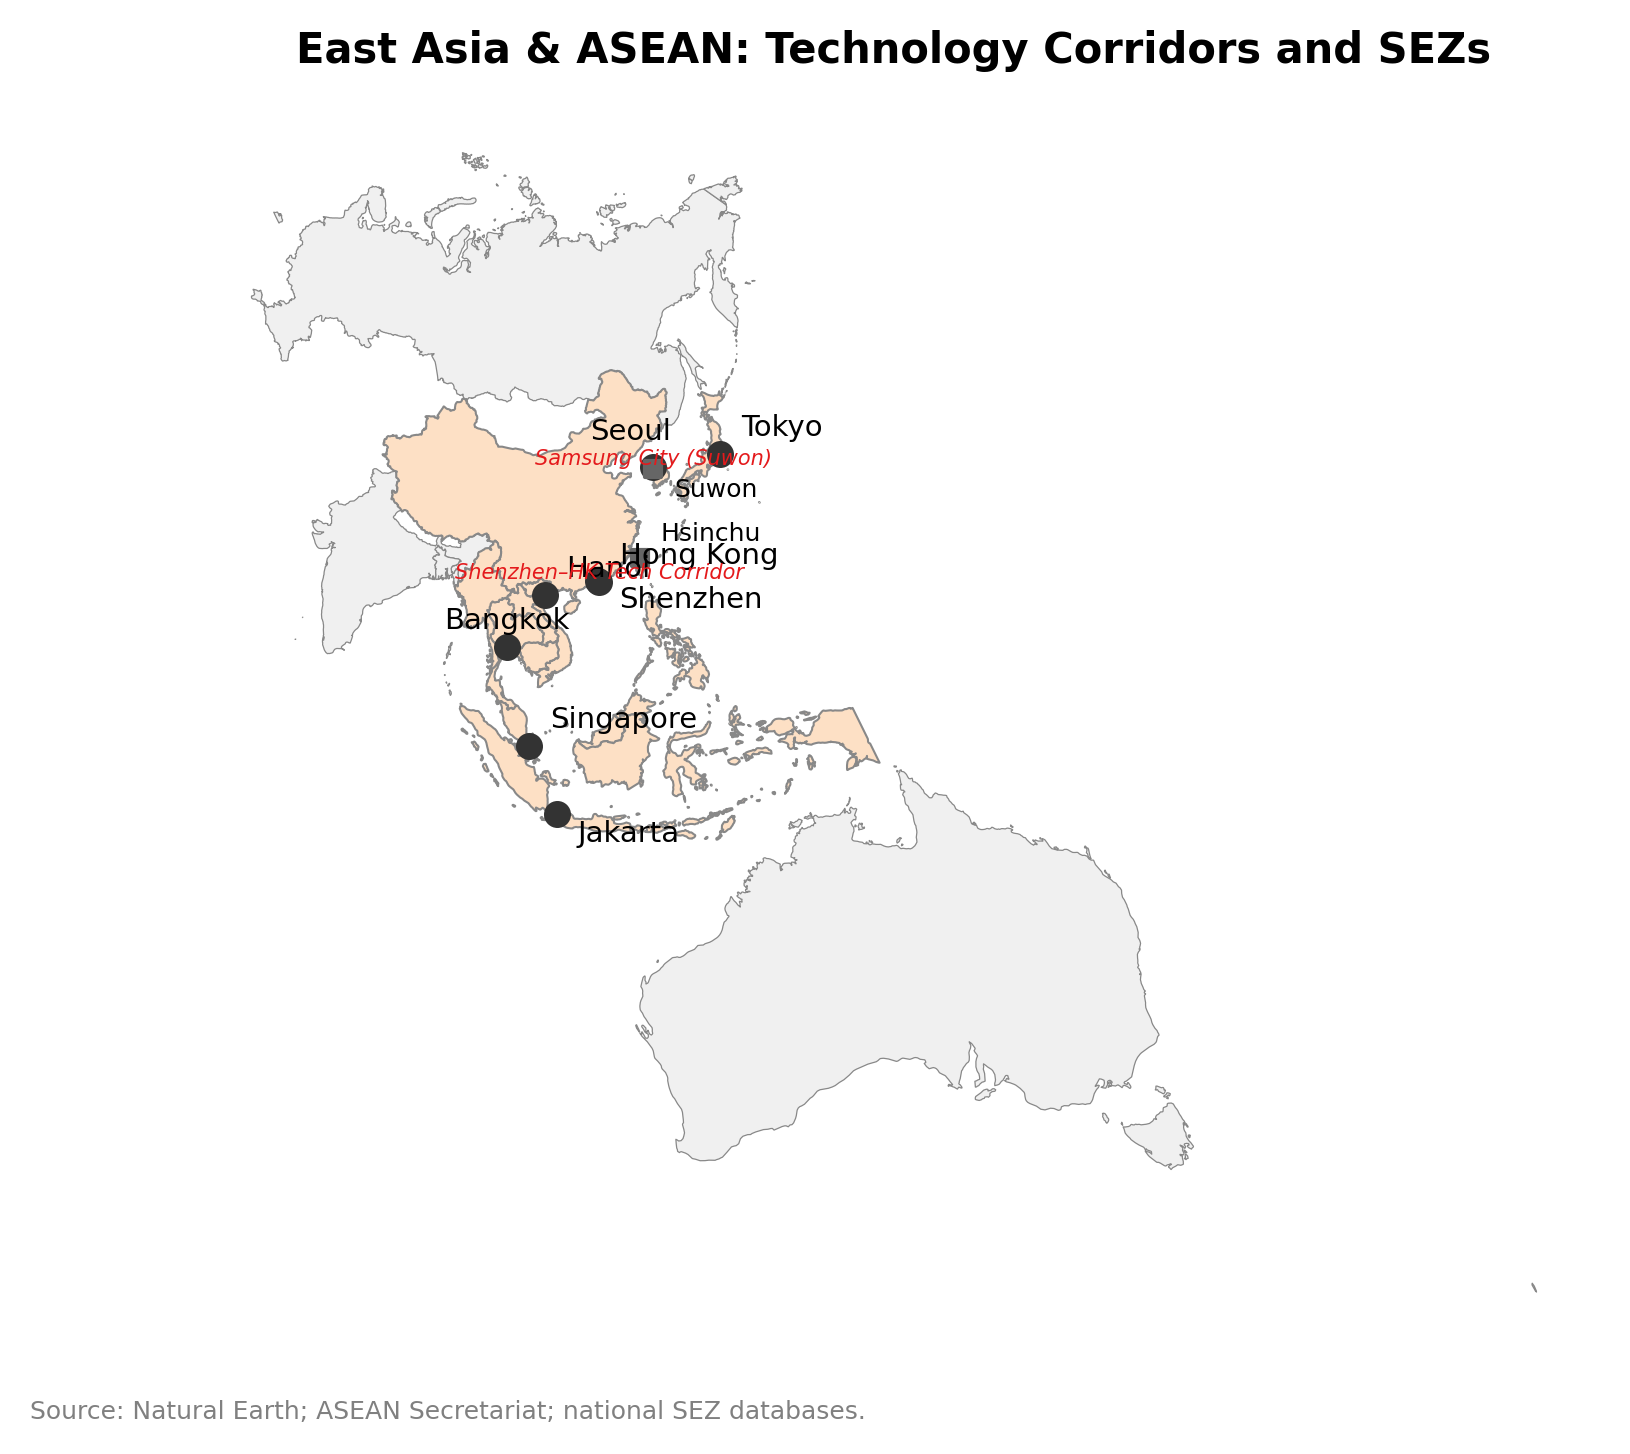
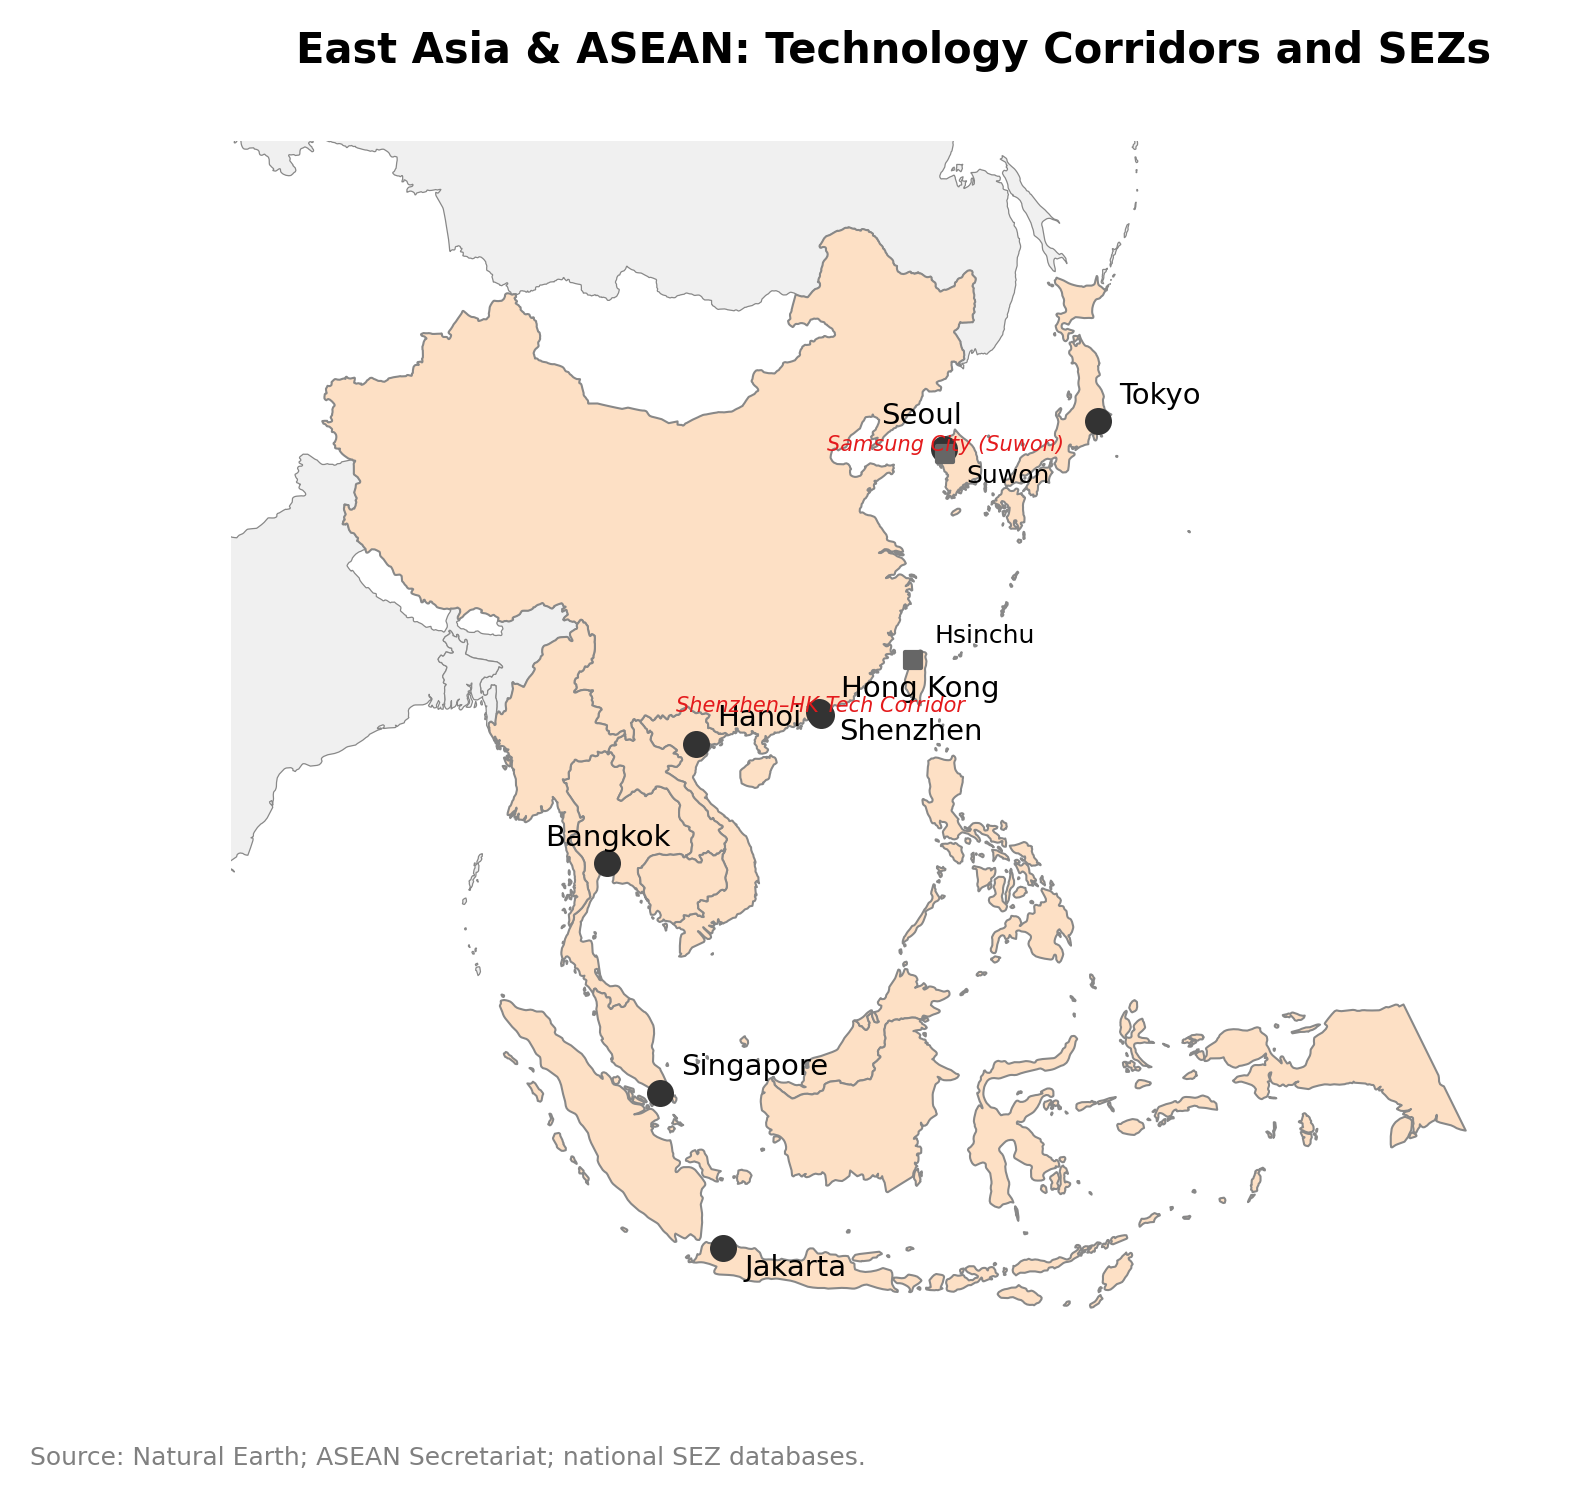
Zoom maps to focus area; drop Australia from East Asia context
Maps ch06, ch07, ch09, ch10, ch11 now compute bounding box from
focus countries and set explicit axis limits with 8% buffer. Removes
wasted space from large context countries (Australia, Russia) that
dominated the frame. Labels are now larger and more readable.

diff --git a/figures/ch07_figures.py b/figures/ch07_figures.py
@@ -34,7 +34,7 @@ def plot_china_asean_map(output_dir: Path, seed: int = 42) -> dict:
     world = get_country_boundaries()
     asean = ["IDN", "MYS", "THA", "VNM", "PHL", "MMR", "KHM", "LAO", "BRN", "SGP"]
     focus = world[world["iso3"].isin(["CHN"] + asean)]
-    context = world[world["iso3"].isin(["IND", "JPN", "KOR", "TWN", "AUS", "RUS"])]
+    context = world[world["iso3"].isin(["IND", "JPN", "KOR", "TWN", "RUS"])]
 
     fig, ax = plt.subplots(figsize=FIGSIZE_MAP)
     try:
@@ -50,7 +50,11 @@ def plot_china_asean_map(output_dir: Path, seed: int = 42) -> dict:
     china.plot(ax=ax, color="#fbb4ae", edgecolor=BORDER_COLOR, linewidth=0.5)
     others.plot(ax=ax, color="#b3cde3", edgecolor=BORDER_COLOR, linewidth=0.5)
 
-    setup_map_ax(ax, "China & ASEAN: BRI Corridors and Economic Integration")
+    # Zoom to focus countries with buffer
+    xmin, ymin, xmax, ymax = focus_proj.total_bounds
+    dx, dy = (xmax - xmin) * 0.08, (ymax - ymin) * 0.08
+    setup_map_ax(ax, "China & ASEAN: BRI Corridors and Economic Integration",
+                 bbox=(xmin - dx, ymin - dy, xmax + dx, ymax + dy))
 
     ann = load_annotations("ch07")
     crs = PROJECTIONS["east_asia"]

diff --git a/figures/ch06_figures.py b/figures/ch06_figures.py
@@ -34,7 +34,7 @@ def plot_east_asia_map(output_dir: Path, seed: int = 42) -> dict:
     world = get_country_boundaries()
     ea_iso = ISO3_SETS["east_asia"]
     ea = world[world["iso3"].isin(ea_iso)]
-    context = world[world["iso3"].isin(["IND", "BGD", "AUS", "RUS"])]
+    context = world[world["iso3"].isin(["IND", "BGD", "RUS"])]
 
     fig, ax = plt.subplots(figsize=FIGSIZE_MAP)
     try:
@@ -46,7 +46,11 @@ def plot_east_asia_map(output_dir: Path, seed: int = 42) -> dict:
     ctx_proj.plot(ax=ax, color=LAND_COLOR, edgecolor=BORDER_COLOR, linewidth=0.3)
     ea_proj.plot(ax=ax, color="#fde0c5", edgecolor=BORDER_COLOR, linewidth=0.5)
 
-    setup_map_ax(ax, "East Asia & ASEAN: Technology Corridors and SEZs")
+    # Zoom to focus countries with buffer
+    xmin, ymin, xmax, ymax = ea_proj.total_bounds
+    dx, dy = (xmax - xmin) * 0.08, (ymax - ymin) * 0.08
+    setup_map_ax(ax, "East Asia & ASEAN: Technology Corridors and SEZs",
+                 bbox=(xmin - dx, ymin - dy, xmax + dx, ymax + dy))
 
     ann = load_annotations("ch06")
     crs = PROJECTIONS["east_asia"]

diff --git a/figures/ch09_figures.py b/figures/ch09_figures.py
@@ -61,7 +61,11 @@ def plot_eu_convergence_map(output_dir: Path, seed: int = 42) -> dict:
                               "shrink": 0.6, "orientation": "horizontal",
                               "pad": 0.05})
 
-    setup_map_ax(ax, "EU Convergence: GDP per Capita Index and Structural Funds Eligibility")
+    # Zoom to EU countries with buffer
+    xmin, ymin, xmax, ymax = eu_proj.total_bounds
+    dx, dy = (xmax - xmin) * 0.08, (ymax - ymin) * 0.08
+    setup_map_ax(ax, "EU Convergence: GDP per Capita Index and Structural Funds Eligibility",
+                 bbox=(xmin - dx, ymin - dy, xmax + dx, ymax + dy))
 
     ann = load_annotations("ch09")
     crs = PROJECTIONS["europe"]

diff --git a/figures/ch11_figures.py b/figures/ch11_figures.py
@@ -55,7 +55,11 @@ def plot_mena_energy_map(output_dir: Path, seed: int = 42) -> dict:
         subset = mena_proj[mena_proj["_color"] == cv]
         subset.plot(ax=ax, color=cv, edgecolor=BORDER_COLOR, linewidth=0.5, alpha=0.6)
 
-    setup_map_ax(ax, "MENA: GCC Energy Economies and Diversification Hubs")
+    # Zoom to MENA countries with buffer
+    xmin, ymin, xmax, ymax = mena_proj.total_bounds
+    dx, dy = (xmax - xmin) * 0.08, (ymax - ymin) * 0.08
+    setup_map_ax(ax, "MENA: GCC Energy Economies and Diversification Hubs",
+                 bbox=(xmin - dx, ymin - dy, xmax + dx, ymax + dy))
 
     ann = load_annotations("ch11")
     crs = PROJECTIONS["mena"]

diff --git a/figures/ch10_figures.py b/figures/ch10_figures.py
@@ -67,7 +67,11 @@ def plot_north_south_map(output_dir: Path, seed: int = 42) -> dict:
         subset.plot(ax=ax, color=color_val, edgecolor=BORDER_COLOR,
                     linewidth=0.5, alpha=0.6)
 
-    setup_map_ax(ax, "EU North-South Divide and Brexit Geography")
+    # Zoom to EU countries with buffer
+    xmin, ymin, xmax, ymax = eu_proj.total_bounds
+    dx, dy = (xmax - xmin) * 0.08, (ymax - ymin) * 0.08
+    setup_map_ax(ax, "EU North-South Divide and Brexit Geography",
+                 bbox=(xmin - dx, ymin - dy, xmax + dx, ymax + dy))
 
     ann = load_annotations("ch10")
     crs = PROJECTIONS["europe"]
